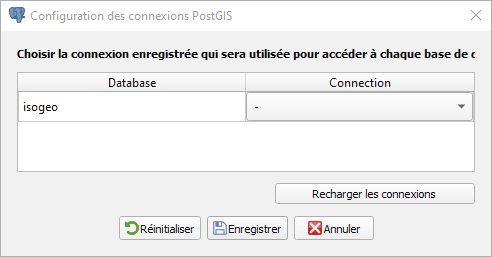
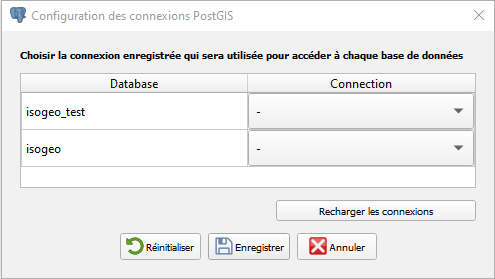
Update doc about pgdb connections configuration

Changed region(s): [[0.0, 0.0, 0.9756, 0.9961], [0.9451, 0.0311, 0.9756, 0.0934]]

diff --git a/fr/usage/configuration.md b/fr/usage/configuration.md
@@ -39,7 +39,7 @@ On retrouve donc :
 
 ## Configuration des connexions PostgeSQL utilisées par le plugin {#pgdb_connections}
 
-!!! note Contexte : Cette fonctionnalité sert à gérer le cas suivant : plusieurs connexions PostgeSQL ont été configurées dans QGIS pour des bases de données dont le nom est identique (champ "Base de données" du formulaire de configuraton de la connexion).
+> Cette fonctionnalité sert à gérer le cas suivant : plusieurs connexions PostgeSQL ont été configurées dans QGIS pour des bases de données dont le nom est identique (champ "Base de données" du formulaire de configuraton de la connexion).
 
 Cette situation peut survenir dans les cas suivants :
 
@@ -50,7 +50,7 @@ Cette situation peut survenir dans les cas suivants :
 
 ### Comportement par défaut du plugin
 
-Dans ce cas là, le plugin QGIS propose à l'utilisateur une option d'ajout par connexion enregistrée pour la base de données dont la donnée est issue :
+Dans ce cas là, le plugin QGIS propose à l'utilisateur une option d'ajout par connexion enregistrée pour la base de données dont la donnée est issue en indiquant le nom de la connexion :
 
 ![](/assets/config_pgdb_connection_several_options.png)
 
@@ -60,22 +60,33 @@ De cette manière, l'utilisateur peut choisir lui-même, au moment d'ajouter la 
 
 Il est possible de choisir de manière durable la connexion qui sera utilisée par le plugin pour accéder à chaque base de données. Ce choix est configurable via une interface graphique dédiée accessible en cliquant sur un bouton situé dans la rubrique "Paramètres d'ajout de couche" de l'onglet "Paramètres" du plugin.
 
-![Ouvrir la boîte de dialogue de configuration des connexions PostgreSQL](/assets/config_pgdb_connection_open_dialog_btn.png)
+![Ouvrir la boîte de dialogue dédiée à la configuration des connexions PostgreSQL](/assets/config_pgdb_connection_open_dialog_btn.png)
 
-Cette interface contient :
+![Interface de configuration des connexions PostgreSQL](/assets/config_pgdb_connection_open_dialog_btn.png)
 
-* un tableau dans lequel des listes déroulantes (colonne de droite) permettent de sélectionner la connexion qui sera utilisée pour accéder à une base de données spécifique (colonne de gauche)
-* des boutons permettant de :
-  * recharger les connexions PostgeSQL configurées dans QGIS
-  * réinitialiser le tableau pour remettre le slistes déroulantes dans leur configuration initiale
-  * enregistrer la configuration
-  * annuler la configuration 
+Les listes déroulantes (colonne de droite) permettent de sélectionner la connexion qui sera utilisée par le plugin pour accéder à la base de données correspondante (colonne de gauche).
 
-#### Choisir la connexion a utiliser pour accéder aux tables du base de données spécifique :
+![Sélectionner la connexion à utiliser pour accéder à une base de données](/assets/config_pgdb_connection_dialog_cbb_open.png)
 
-1. Choisir le nom de cette connexion dans la liste dé roulante correspondante
+Une fois la configuration effectuée, l'utilisateur peut :
 
-!!! note Important : La [recherche](/usage/search.md#reset) doit être réinitialisée pour prendre en compte cette configuration.
+1. **Réinitialiser** le tableau : pour remettre les listes déroulantes dans leur configuration initiale (au moment de l'ouverture de la boîte de dialogue)
+2. **Enregistrer** la configuration : pour enregistrer durablement les choix faits par l'utilisateur avant de fermer la boîte de dialogue
+3. **Annuler** la configuration : pour fermer la boîte de dialogue sans prendre n ecompte les choix faits pas l'utilisateur
+
+![Réinitialiser/Enregistrer/Annuler la configuration](/assets/config_pgdb_connection_dialog_btn_box.png)
+
+Si une connexion à une base de données a été modifiée/ajoutée/supprimée pendant la session d'utilisation courrante de QGIS, il faut cliquer sur "Recharger les connexions" pour que la modification soit prise en compte par le plugin Isogeo :
+
+![Recharger les connexions](/assets/config_pgdb_connection_dialog_btn_box.png)
+
+Une fois la configuration enregistrée, elle se répercute dans les options d'ajout de couche proposées à l'utilisateur :
+
+![](/assets/config_pgdb_connection_unique_option.png)
+
+Le plugin ne propose plus qu'une option d'ajout à l'utilisateur correspondant à la connexion qu'il a sélectionné.
+
+> La [recherche](/usage/search.md#reset) doit être réinitialisée pour prendre en compte cette configuration.
 
 ---
 
@@ -96,4 +107,4 @@ Afin d'obtenir ce résultat, il est nécessaire de cocher la case correspondante
 
 ![Paramètres du Portail isogeo](/assets/settings_isogeo_portal_fr.png)
 
-!!! note Important : La [recherche](/usage/search.md#reset) doit être réinitialisée pour prendre en compte les modifications apportées au champ ci-dessus.
+> La [recherche](/usage/search.md#reset) doit être réinitialisée pour prendre en compte les modifications apportées au champ ci-dessus.
